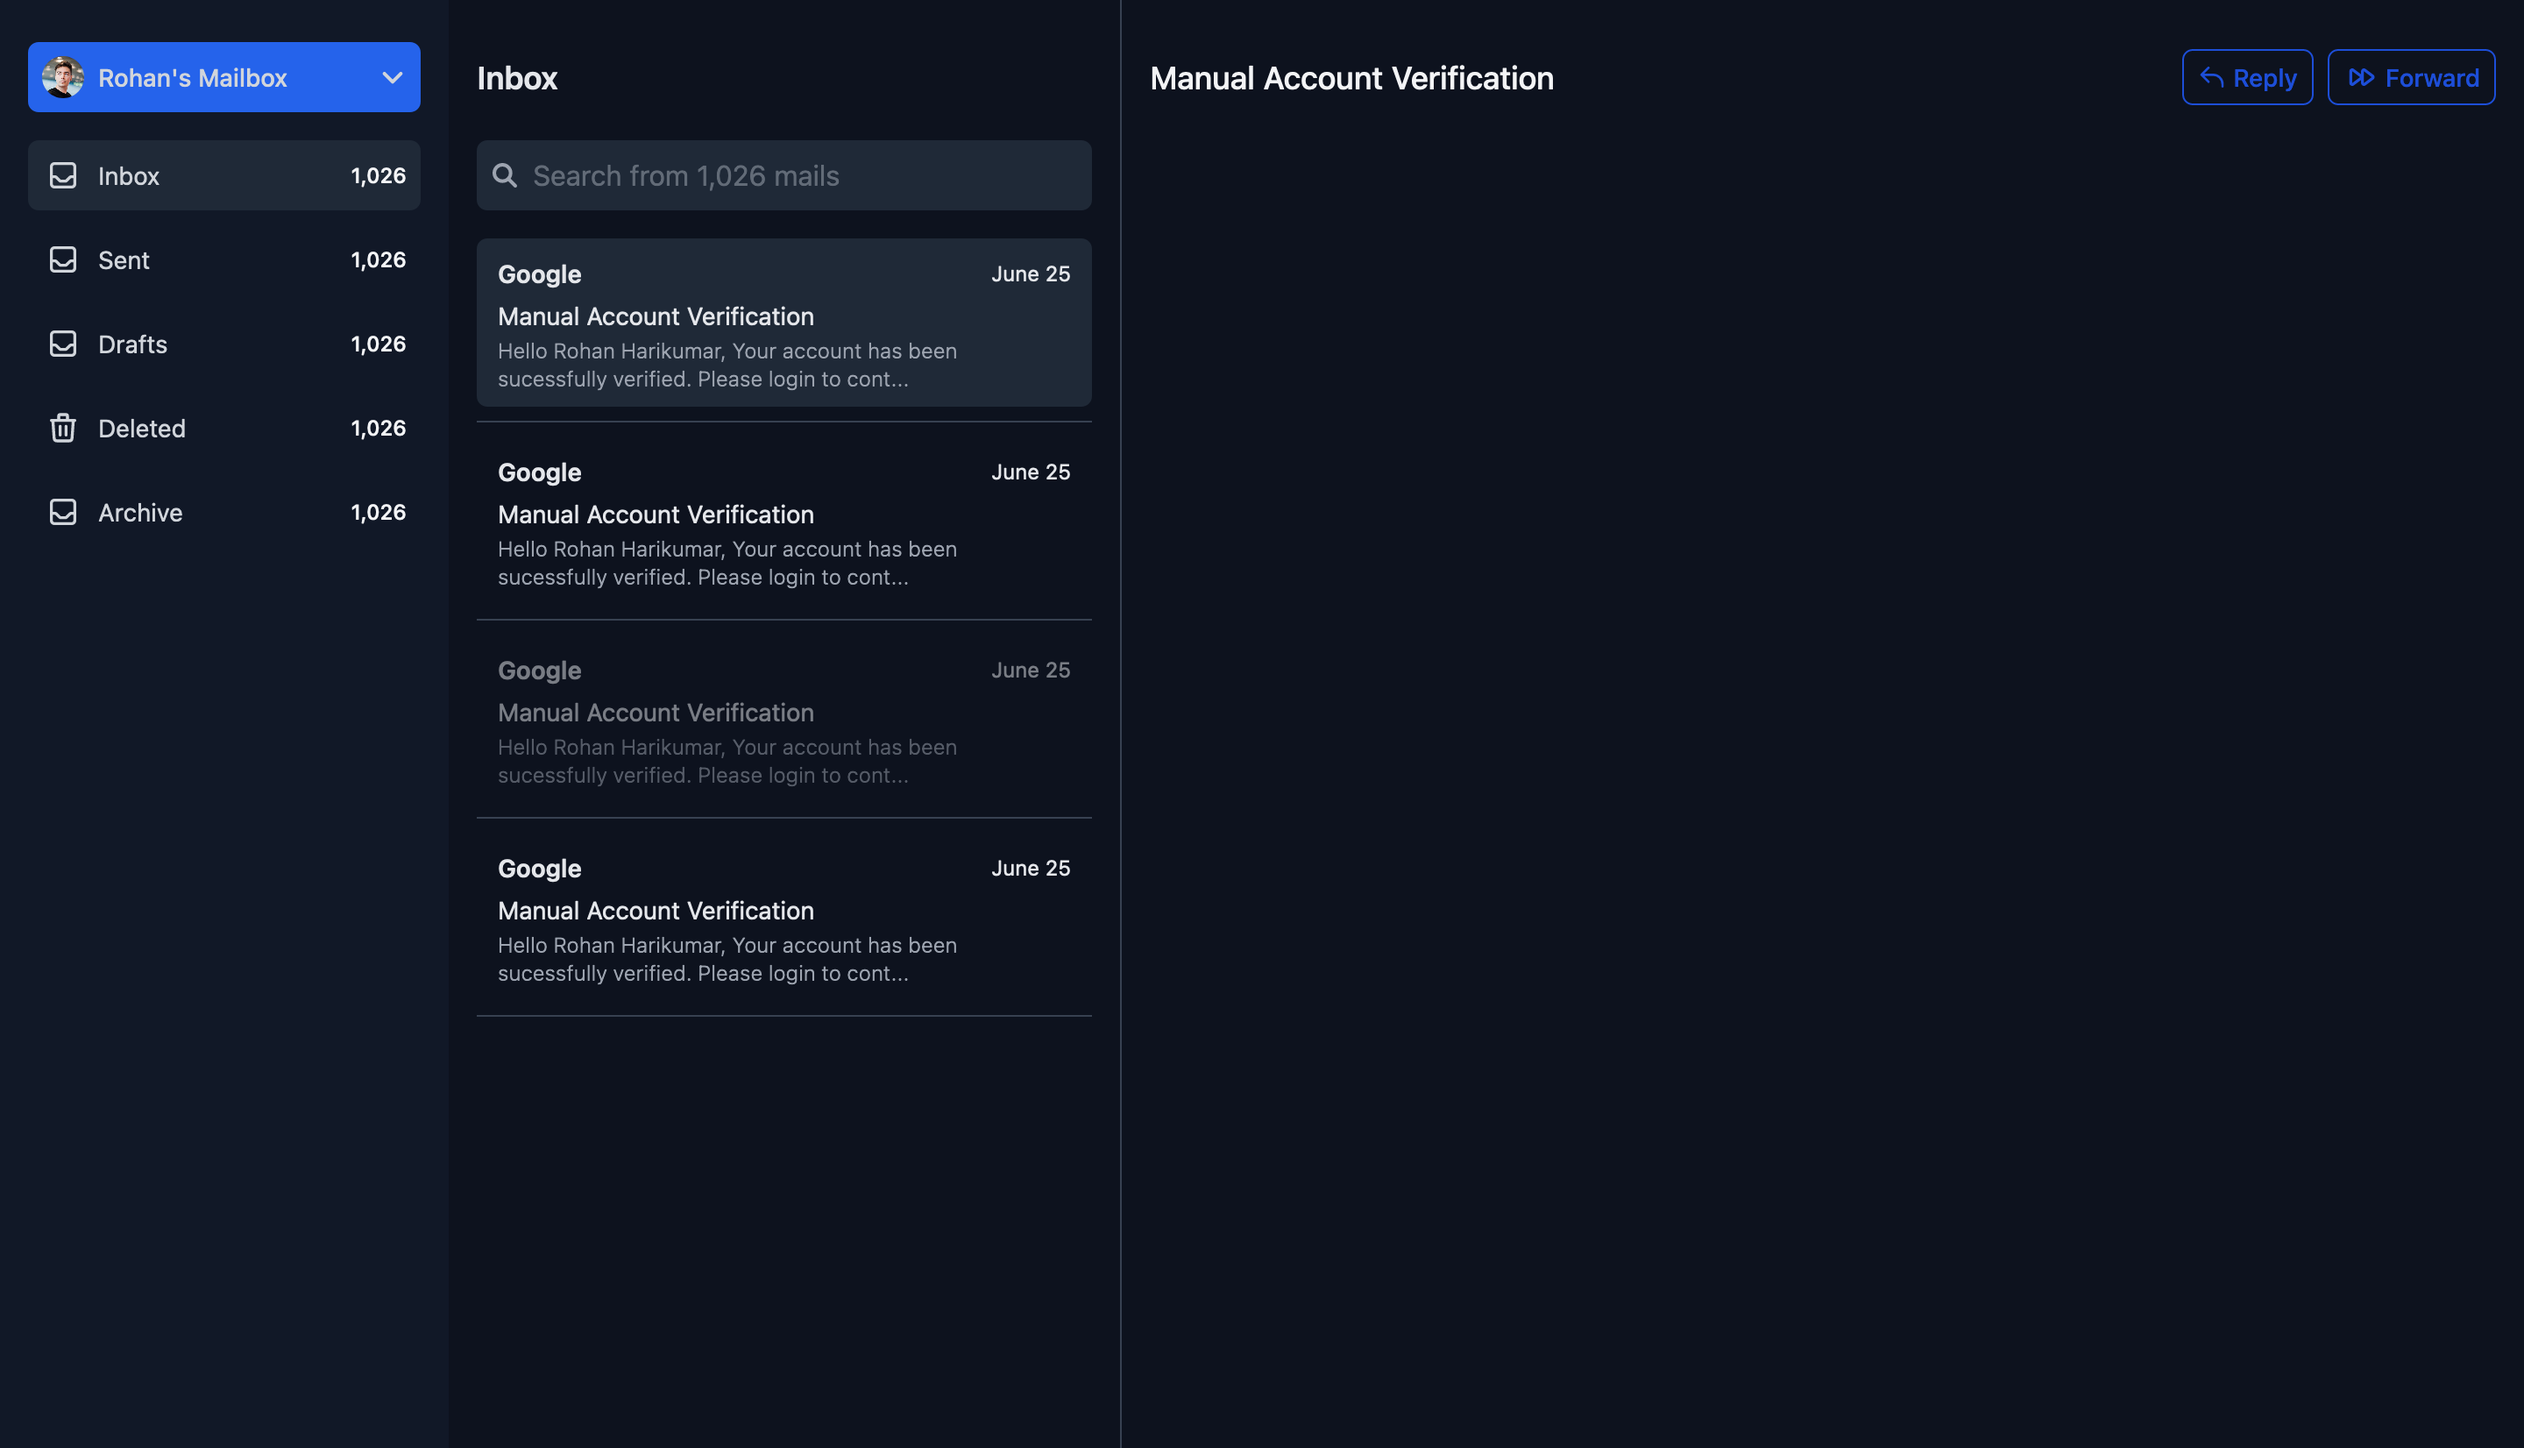
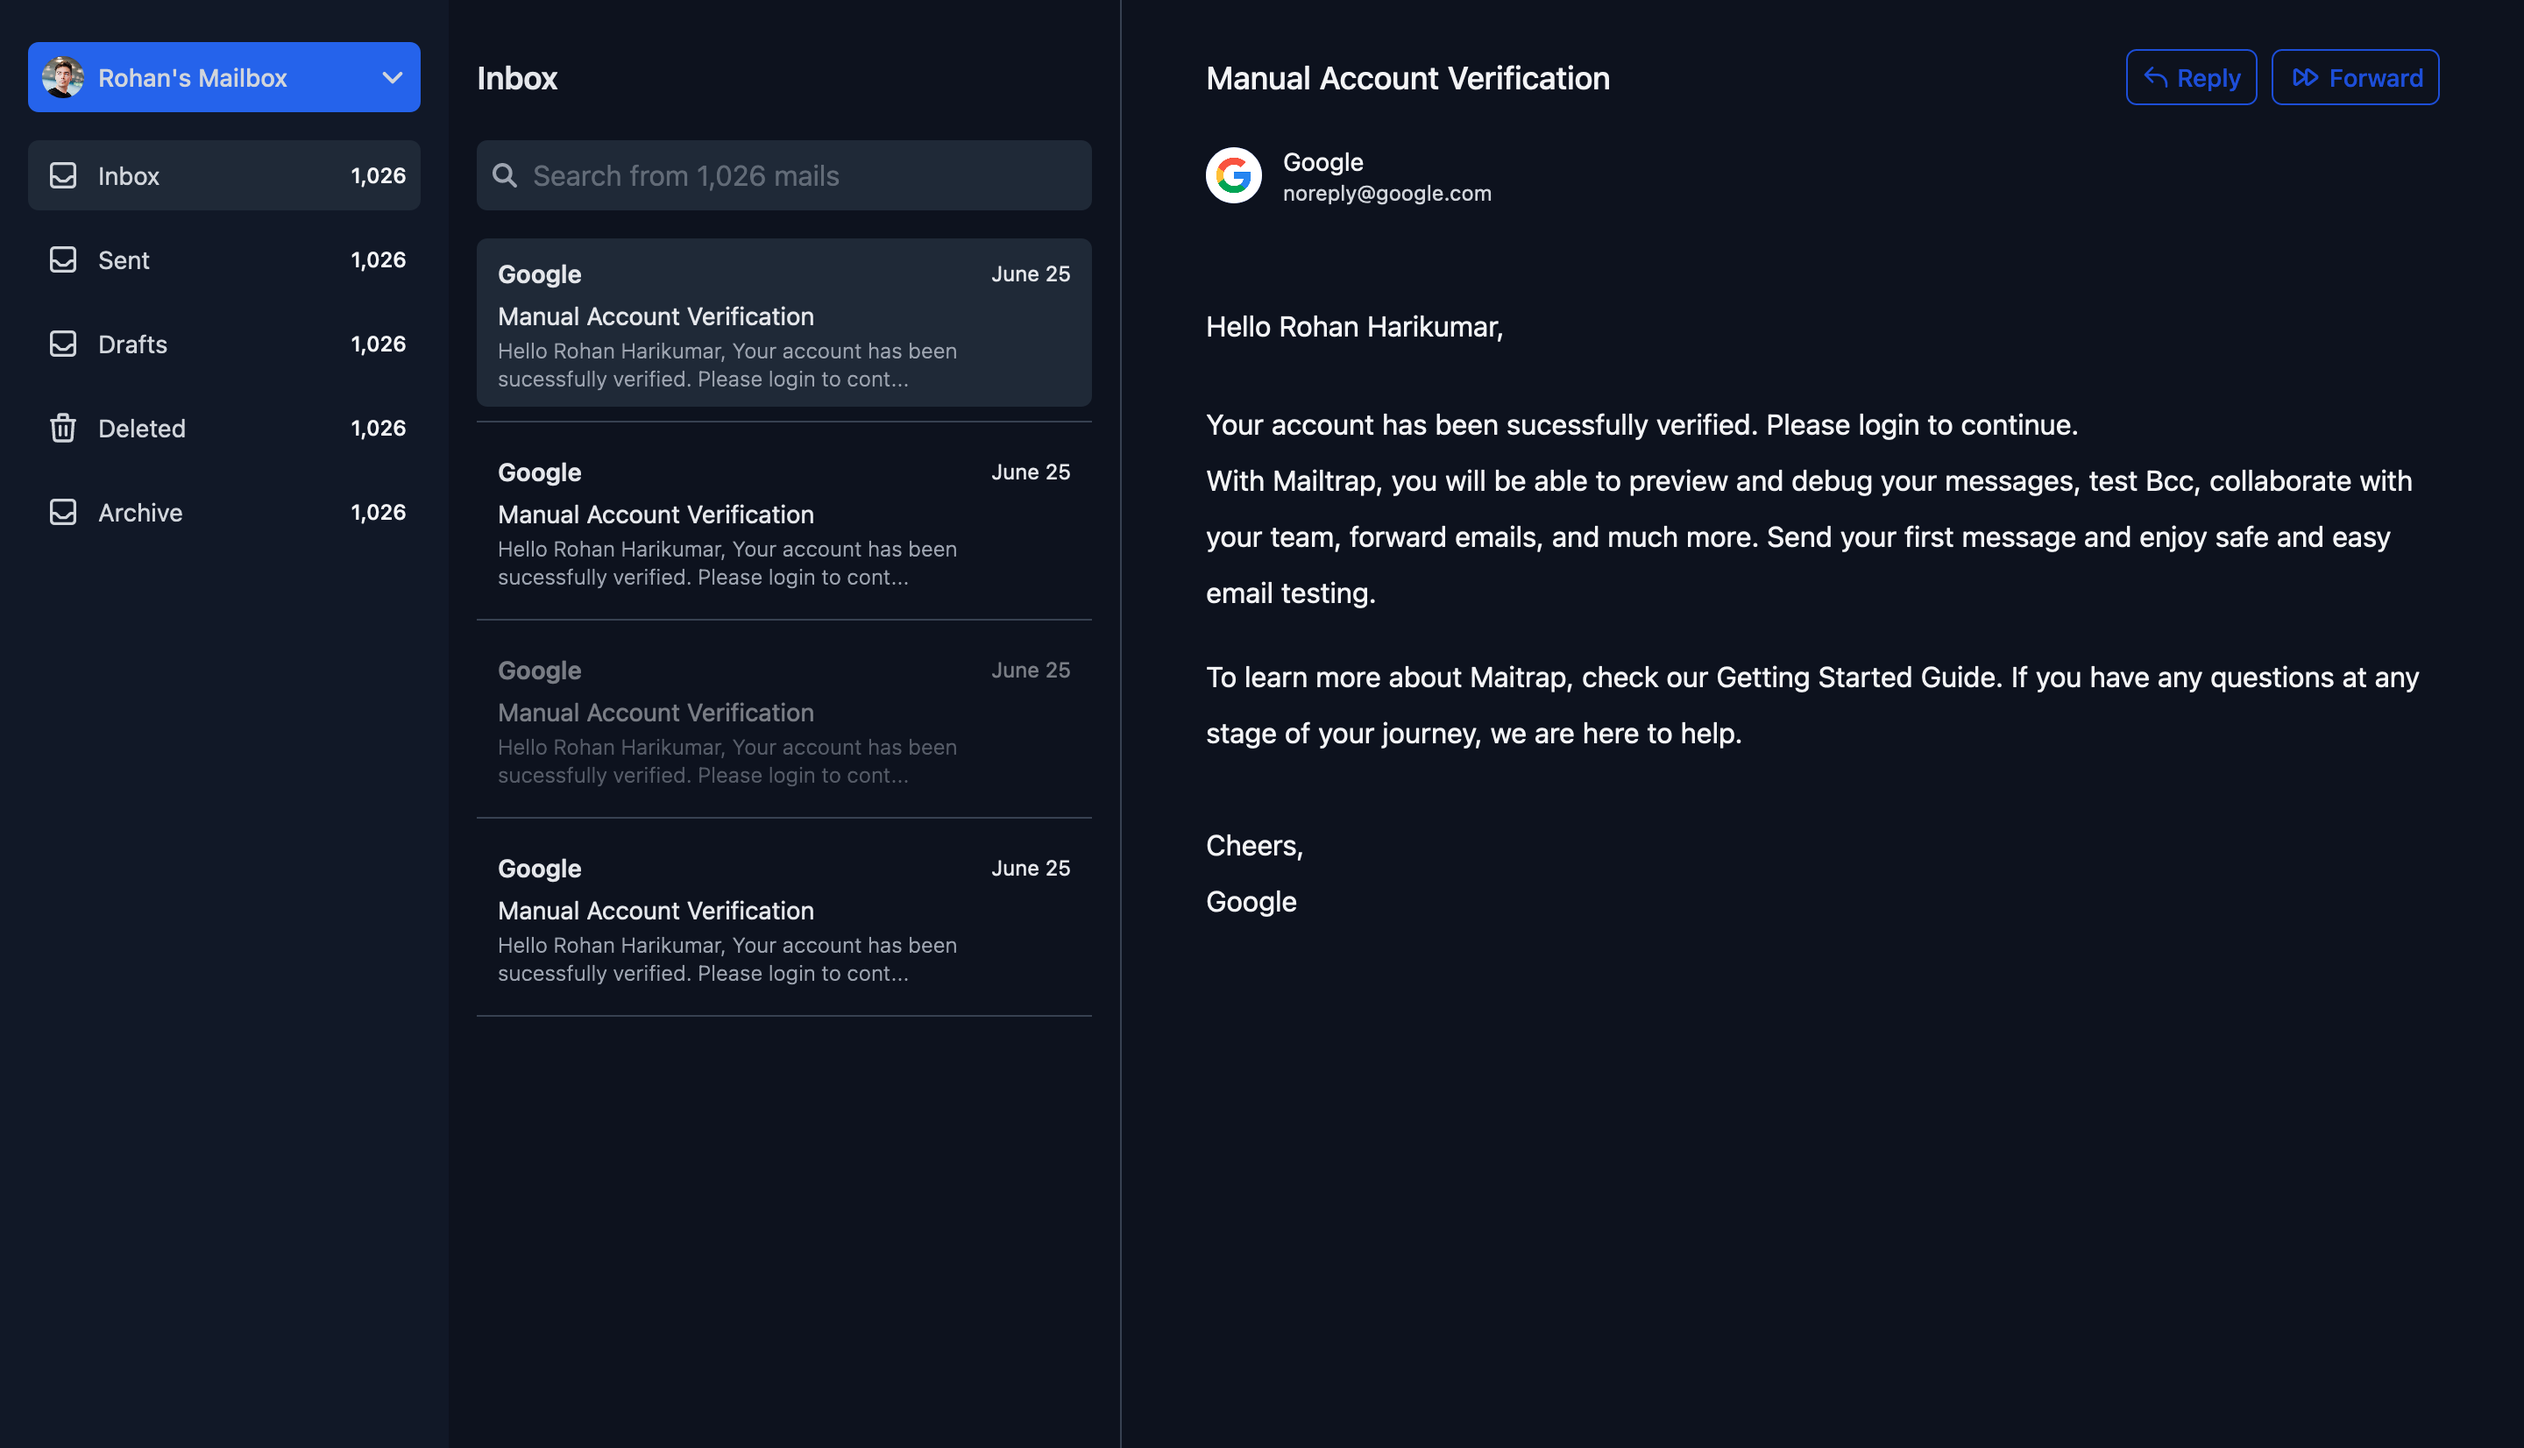
Update EmailView

diff --git a/src/components/EmailView.tsx b/src/components/EmailView.tsx
@@ -2,7 +2,7 @@ import React from 'react';
 
 const EmailView = () => {
 	return(
-		<main className="bg-gray-1000 flex-1 text-gray-100 py-6 px-4">
+		<main className="bg-gray-1000 flex-1 text-gray-100 py-6 px-12">
 			<span className="flex h-10 items-center justify-between">
 				<h1 className="text-gray-100 font-medium text-lg">Manual Account Verification</h1>
 				<div className="text-sm inline-flex items-center space-x-2">
@@ -20,6 +20,24 @@ const EmailView = () => {
 					</button>
 				</div>
 			</span>
+			<div className="inline-flex items-center mt-4 flex space-x-1">
+				<div className="h-10 w-10 flex items-center -space-x-1 overflow-hidden">
+					<img className="inline-block h-8 w-8 rounded-full bg-blue-700" src="https://img-authors.flaticon.com/google.jpg" alt="avatar" />
+				</div>
+				<div>
+					<span className="text-sm block">Google</span>
+					<span className="text-xs block text-gray-300">noreply@google.com</span>
+				</div>
+			</div>
+			<section className="mt-12 text-base">
+				<p className="leading-8">
+					<span className="block mb-6">Hello Rohan Harikumar,</span>
+					<span className="block">Your account has been sucessfully verified. Please login to continue.</span>
+					<span className="block">With Mailtrap, you will be able to preview and debug your messages, test Bcc, collaborate with your team, forward emails, and much more. Send your first message and enjoy safe and easy email testing.</span>
+					<span className="mt-4 block">To learn more about Maitrap, check our Getting Started Guide. If you have any questions at any stage of your journey, we are here to help.</span>
+					<span className="block mt-8">Cheers,<br/> Google</span>
+				</p>
+			</section>
 	  	</main>
 	);
 }
